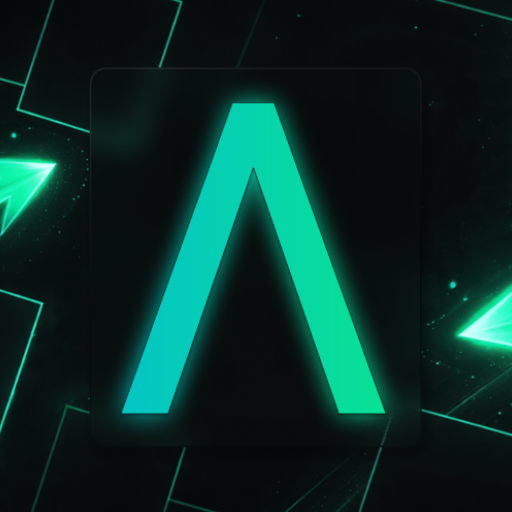
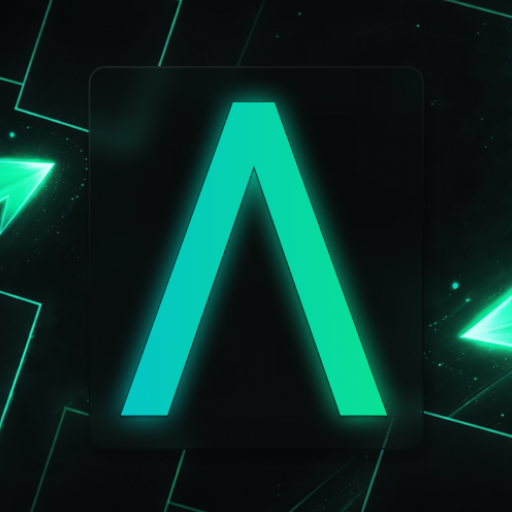
Автоматическая загрузка иконок лучшего качества при добавлении apk.

diff --git a/admin-backend/src/main/kotlin/rus/setv/adminbackend/service/ApkParserService.kt b/admin-backend/src/main/kotlin/rus/setv/adminbackend/service/ApkParserService.kt
@@ -1,6 +1,7 @@
 package rus.setv.adminbackend.service
 
 import net.dongliu.apk.parser.ApkFile
+import net.dongliu.apk.parser.bean.IconFace
 import org.springframework.beans.factory.annotation.Value
 import org.springframework.stereotype.Service
 import org.springframework.web.multipart.MultipartFile
@@ -39,7 +40,6 @@ class ApkParserService(
             throw IllegalArgumentException("APK file is empty")
         }
 
-        // ===== Save APK =====
         val apkFileName = "${UUID.randomUUID()}.apk"
         val apkTargetPath = apkUploadDir.resolve(apkFileName)
 
@@ -50,19 +50,7 @@ class ApkParserService(
         ApkFile(apkTargetPath.toFile()).use { apk ->
             val meta = apk.apkMeta
 
-            // ===== Extract icon =====
-            var iconUrl: String? = null
-
-            val icon = apk.iconFile
-            if (icon != null) {
-                val iconFileName = "${UUID.randomUUID()}.png"
-                val iconTargetPath = iconUploadDir.resolve(iconFileName)
-
-                val iconBytes = apk.getFileData(icon.path)
-                Files.write(iconTargetPath, iconBytes)
-
-                iconUrl = "$baseUrl/files/icons/$iconFileName"
-            }
+            val iconUrl = extractBestIcon(apk)
 
             return ApkParseResultDto(
                 name = meta.label ?: "Unknown",
@@ -72,5 +60,31 @@ class ApkParserService(
                 iconUrl = iconUrl
             )
         }
+    }
+
+    private fun extractBestIcon(apk: ApkFile): String? {
+        val icons: List<IconFace> = apk.allIcons ?: return null
+        if (icons.isEmpty()) return null
+
+        var bestIcon: IconFace? = null
+        var maxSize = 0
+
+        for (icon in icons) {
+            val bytes = apk.getFileData(icon.path)
+            if (bytes.size > maxSize) {
+                maxSize = bytes.size
+                bestIcon = icon
+            }
+        }
+
+        if (bestIcon == null) return null
+
+        val iconFileName = "${UUID.randomUUID()}.png"
+        val iconTargetPath = iconUploadDir.resolve(iconFileName)
+
+        val iconBytes = apk.getFileData(bestIcon.path)
+        Files.write(iconTargetPath, iconBytes)
+
+        return "$baseUrl/files/icons/$iconFileName"
     }
 }
